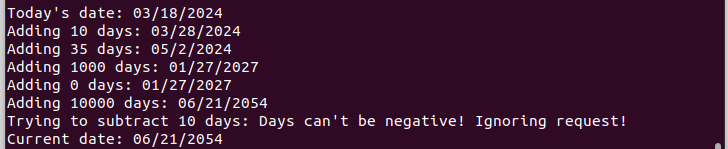
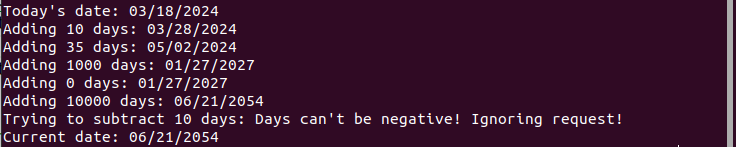
Corrected output format in HW3 prob4, and added readings

Changed region(s): [[0.0, 0.0, 0.8764, 1.0], [0.967, 0.0, 1.0, 1.0]]

diff --git a/Readings.md b/Readings.md
@@ -41,3 +41,6 @@ and from chapter 6 (Operators) - Sections 6.1, 6.2, 6.4, 6.6, 6.7.
 - For classes and constructors, from [learncpp.com](https://www.learncpp.com/), Sections 14.8-14.10.
 - For compilation, from [learncpp.com](https://www.learncpp.com/), Sections 0.4-0.5, 2.7-2.8, 2.11.
 - See [this](https://www2.cs.sfu.ca/CourseCentral/125/tjd/separate_compile_RGB_color.html), for separate compilation.
+
+# Week of 03-25
+- For GNU make, see [here](https://earthly.dev/blog/g++-makefile/).
